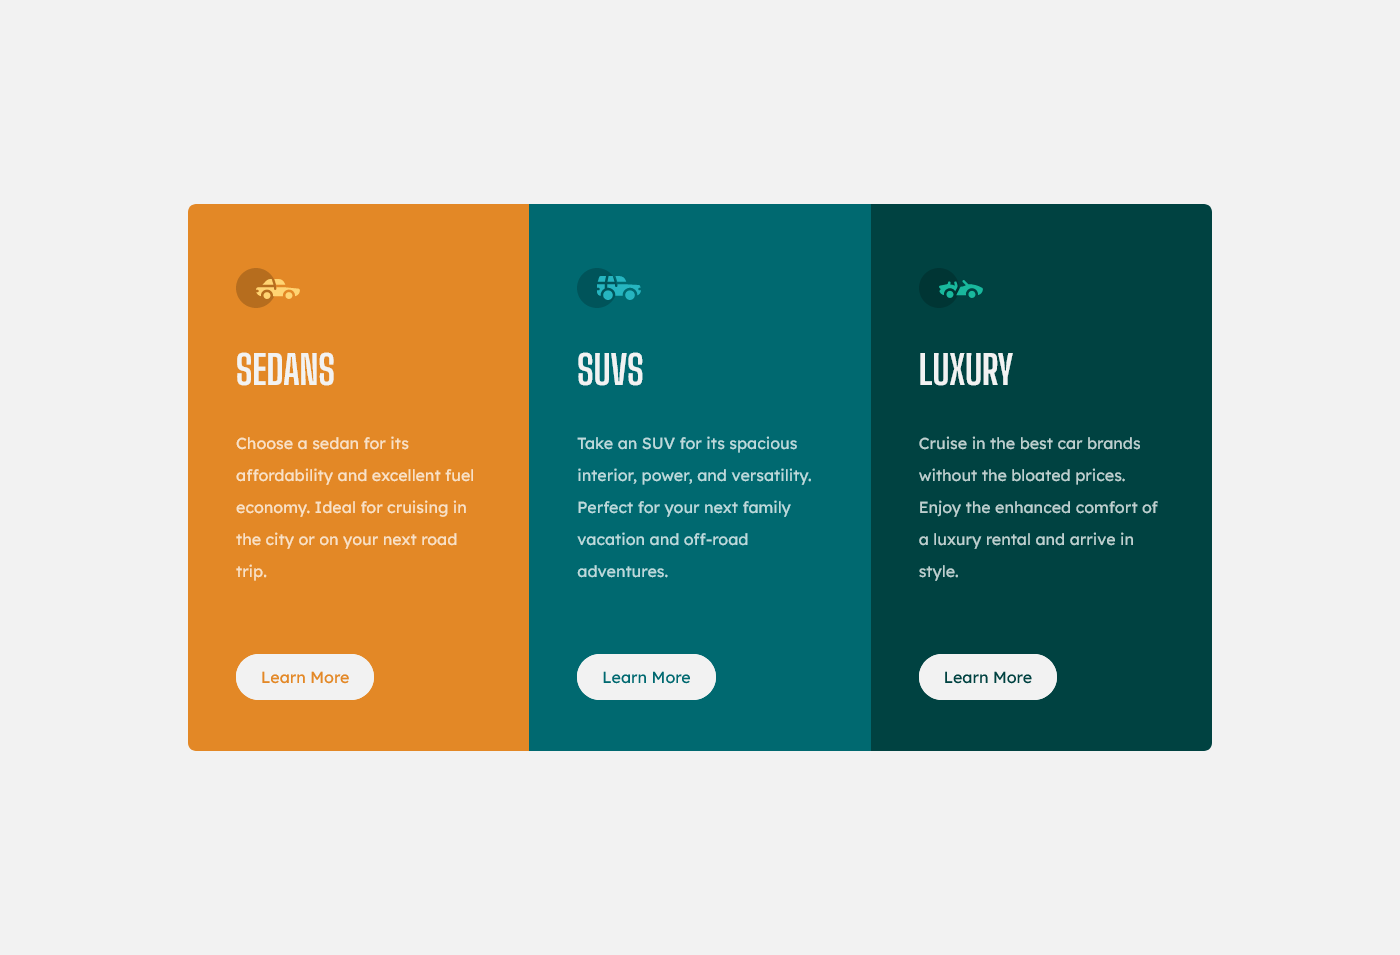
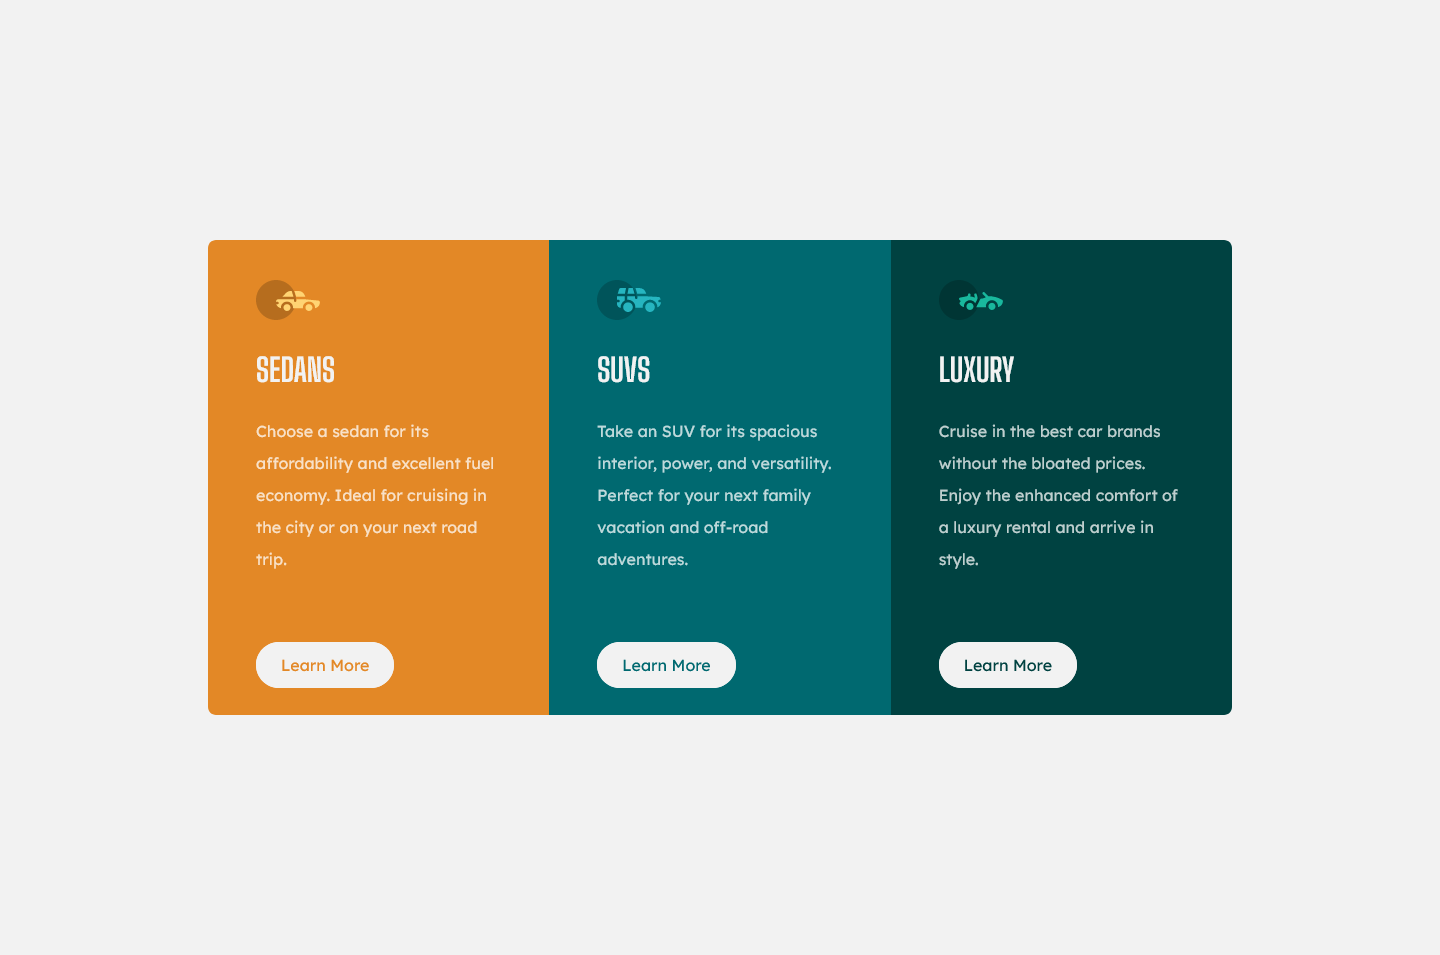
resize desktop height

Changed region(s): [[0.1229, 0.2126, 0.8907, 0.7895]]

diff --git a/style.css b/style.css
@@ -45,7 +45,7 @@ main {
 }
 
 .card {
-    padding: 4rem 3rem;
+    padding: 2.5rem 3rem;
 }
 
 .card-1 {
@@ -61,7 +61,7 @@ main {
 
 h2 {
     color: var(--color-neutral-300);
-    font-size: 2.5rem;
+    font-size: 2rem;
     font-family: 'Big Shoulders Display', cursive;
     text-transform: uppercase;
 }
